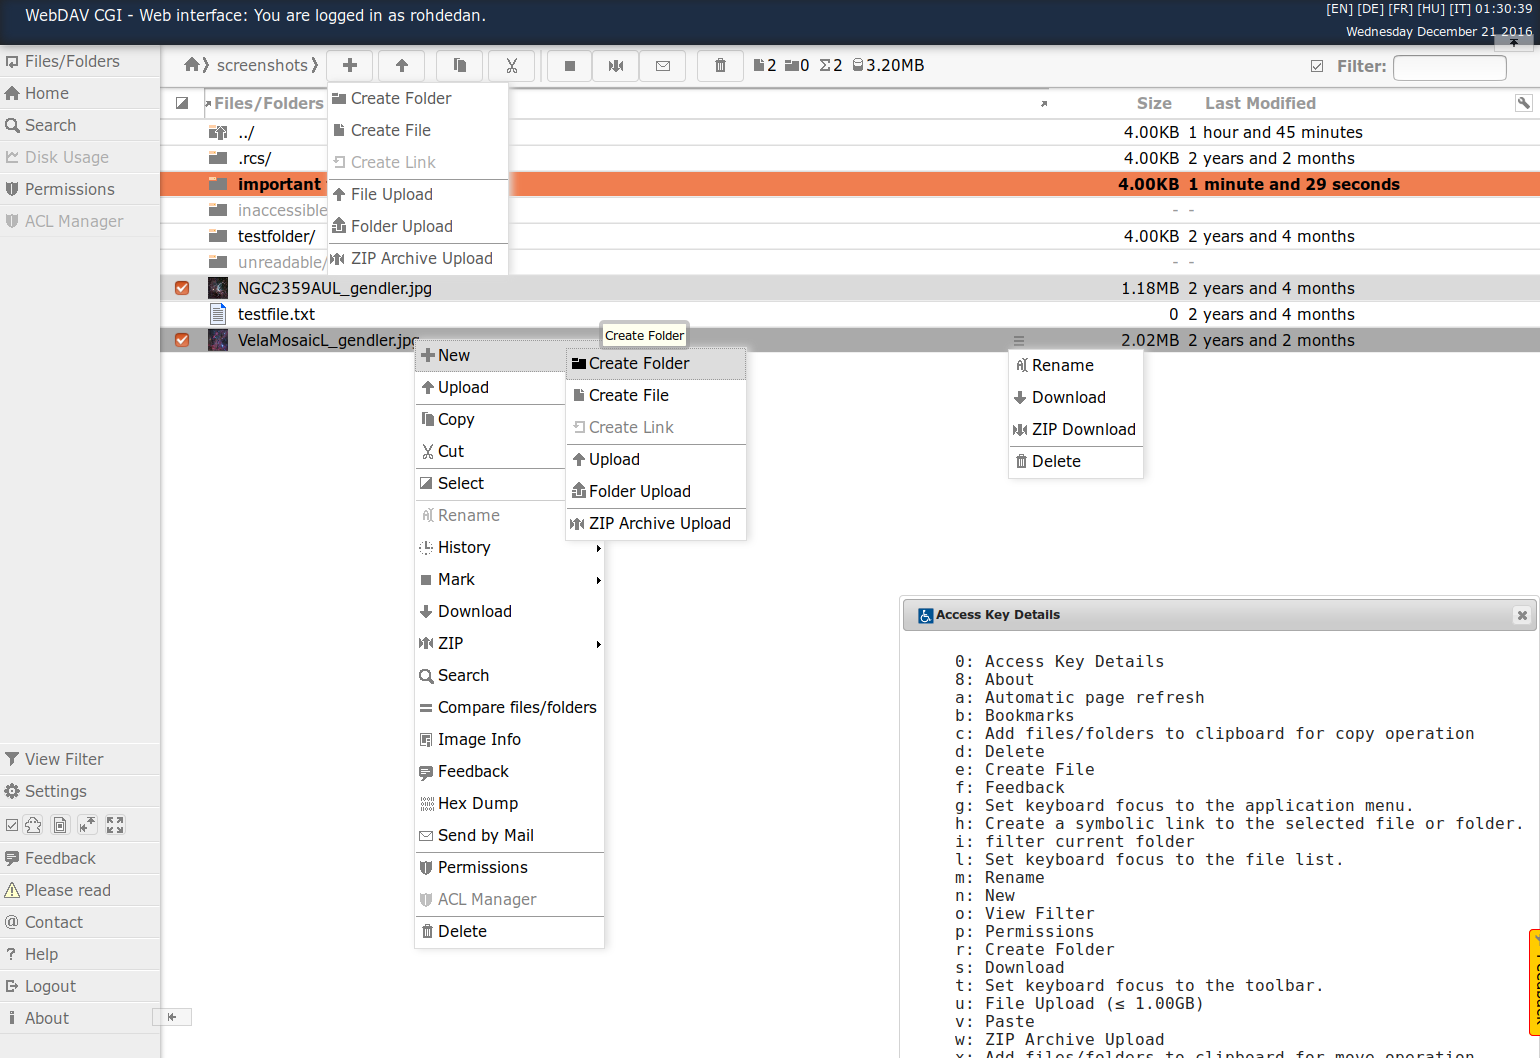
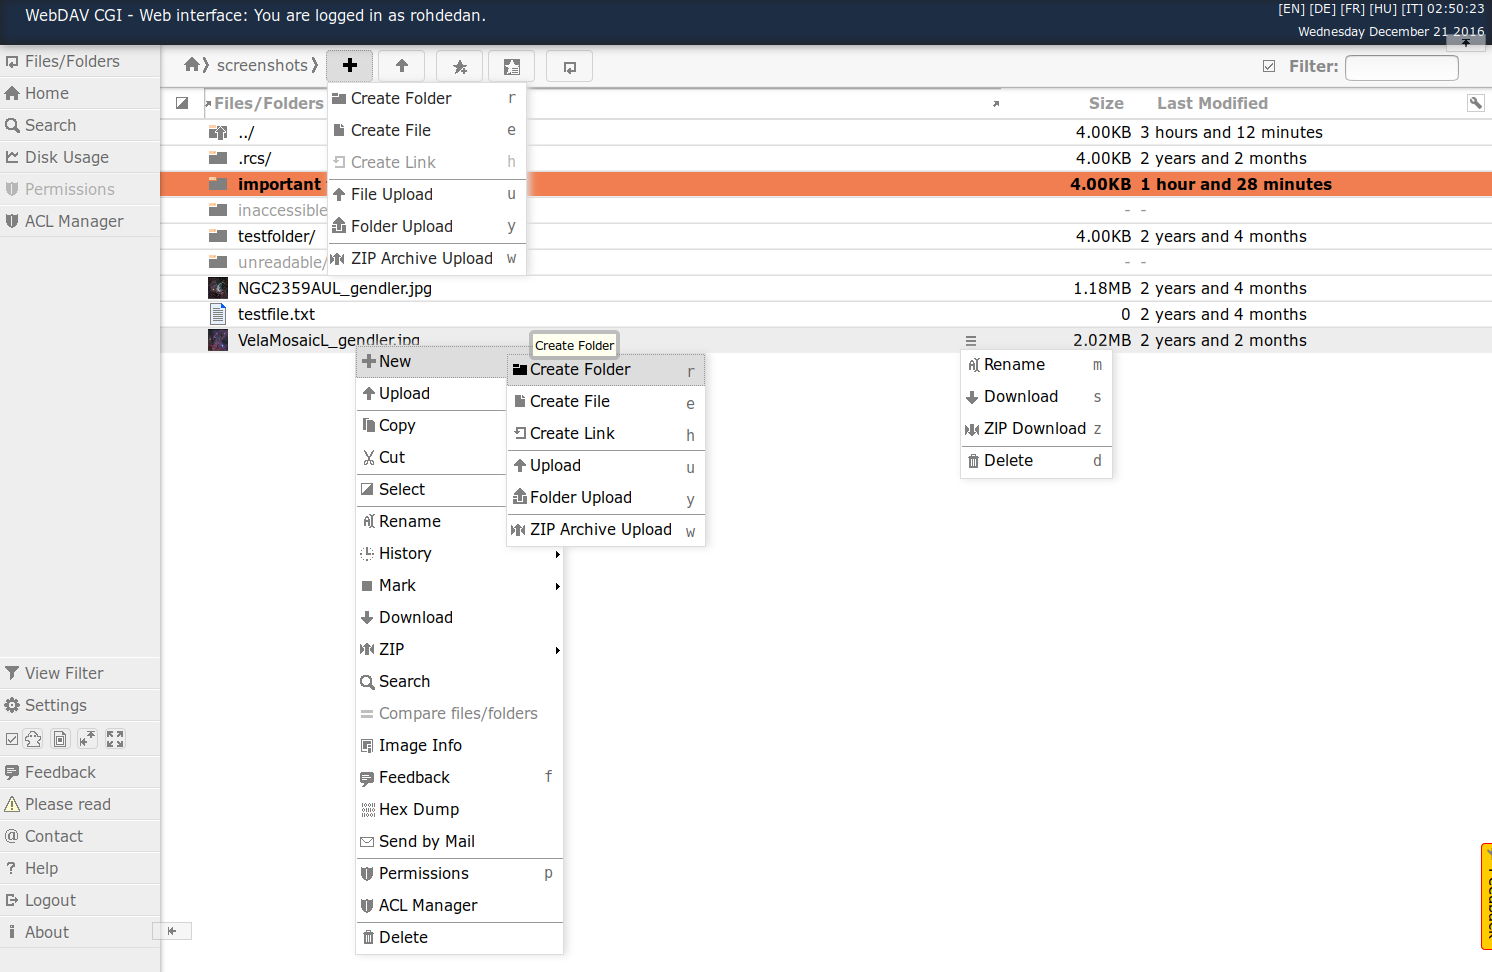
- added accesskeys to popup menues

diff --git a/htdocs/views/simple/style.css b/htdocs/views/simple/style.css
@@ -73,7 +73,7 @@ a {
 	color: #666666;
 	display: block;
 	font-size: 15px;
-	padding: 6px 6px 6px 25px;
+	padding: 6px 1.6em 6px 25px;
 	text-decoration: none;
 	text-shadow: 0 1px 0 #f8f8f8;
 	min-height: 1.2em;
@@ -270,13 +270,13 @@ table,th,td {
 	float: right;
 }
 
-#fileactions.hidelabels .label  {
+#fileactions.hidelabels .label, #fileactions.hidelabels .accesskey  {
 	display: none;
 }
 
 #fileactions .action {
 	min-width: 22px;
-	padding: 6px 6px 6px 22px;
+	padding: 6px 1.6em 6px 22px;
 	border: 1px solid transparent;
 	margin: 0;
 	background-position-x: 2px;
@@ -312,6 +312,9 @@ table,th,td {
 #fileactions .label  {
 	font-size: 15px !important;
 	color: black !important;
+	font-style: normal;
+	font-family: sans-serif;
+	text-transform: none;
 }
 .fileactions-dropdown:focus, .fileactions-dropdown:hover {
 	background-image: url(images/sprite-hover.png);
@@ -1385,7 +1388,7 @@ img {
 .toolbar ul li {
 	background-color: white;
 	margin: 0;
-	padding: 6px 6px 6px 22px;
+	padding: 6px 1.6em 6px 22px;
 	min-width: 150px;
 	min-height: 1.2em;
 	height: auto;
@@ -1467,6 +1470,20 @@ img {
 .action.quicknav-el.quicknav-el-home:hover, .action.quicknav-el.quicknav-el-home:focus {
 	background-image: url(images/sprite-hover.png), url(images/sprite-hover.png);
 }
+
+.accesskey {
+	display: inline-block;
+	position: absolute;
+	right: 4px;
+	margin: -1em 0 0 0;
+	padding: 0;
+	border: 0;
+	color: #666;
+	width: 1em;
+	height: 1em;
+	font-family: monospace;
+}
+
 /* Popup menues */
 #popupmenu {
 	display: none;
@@ -1535,7 +1552,7 @@ ul.subpopupmenu li {
 	overflow: hidden;
 	text-overflow: ellipsis;
 	margin: 0;
-	padding: 6px 6px 6px 22px;
+	padding: 6px 1.6em 6px 22px;
 	border: 1px solid white;
 	font-size: 15px;
 	line-height: 1;
